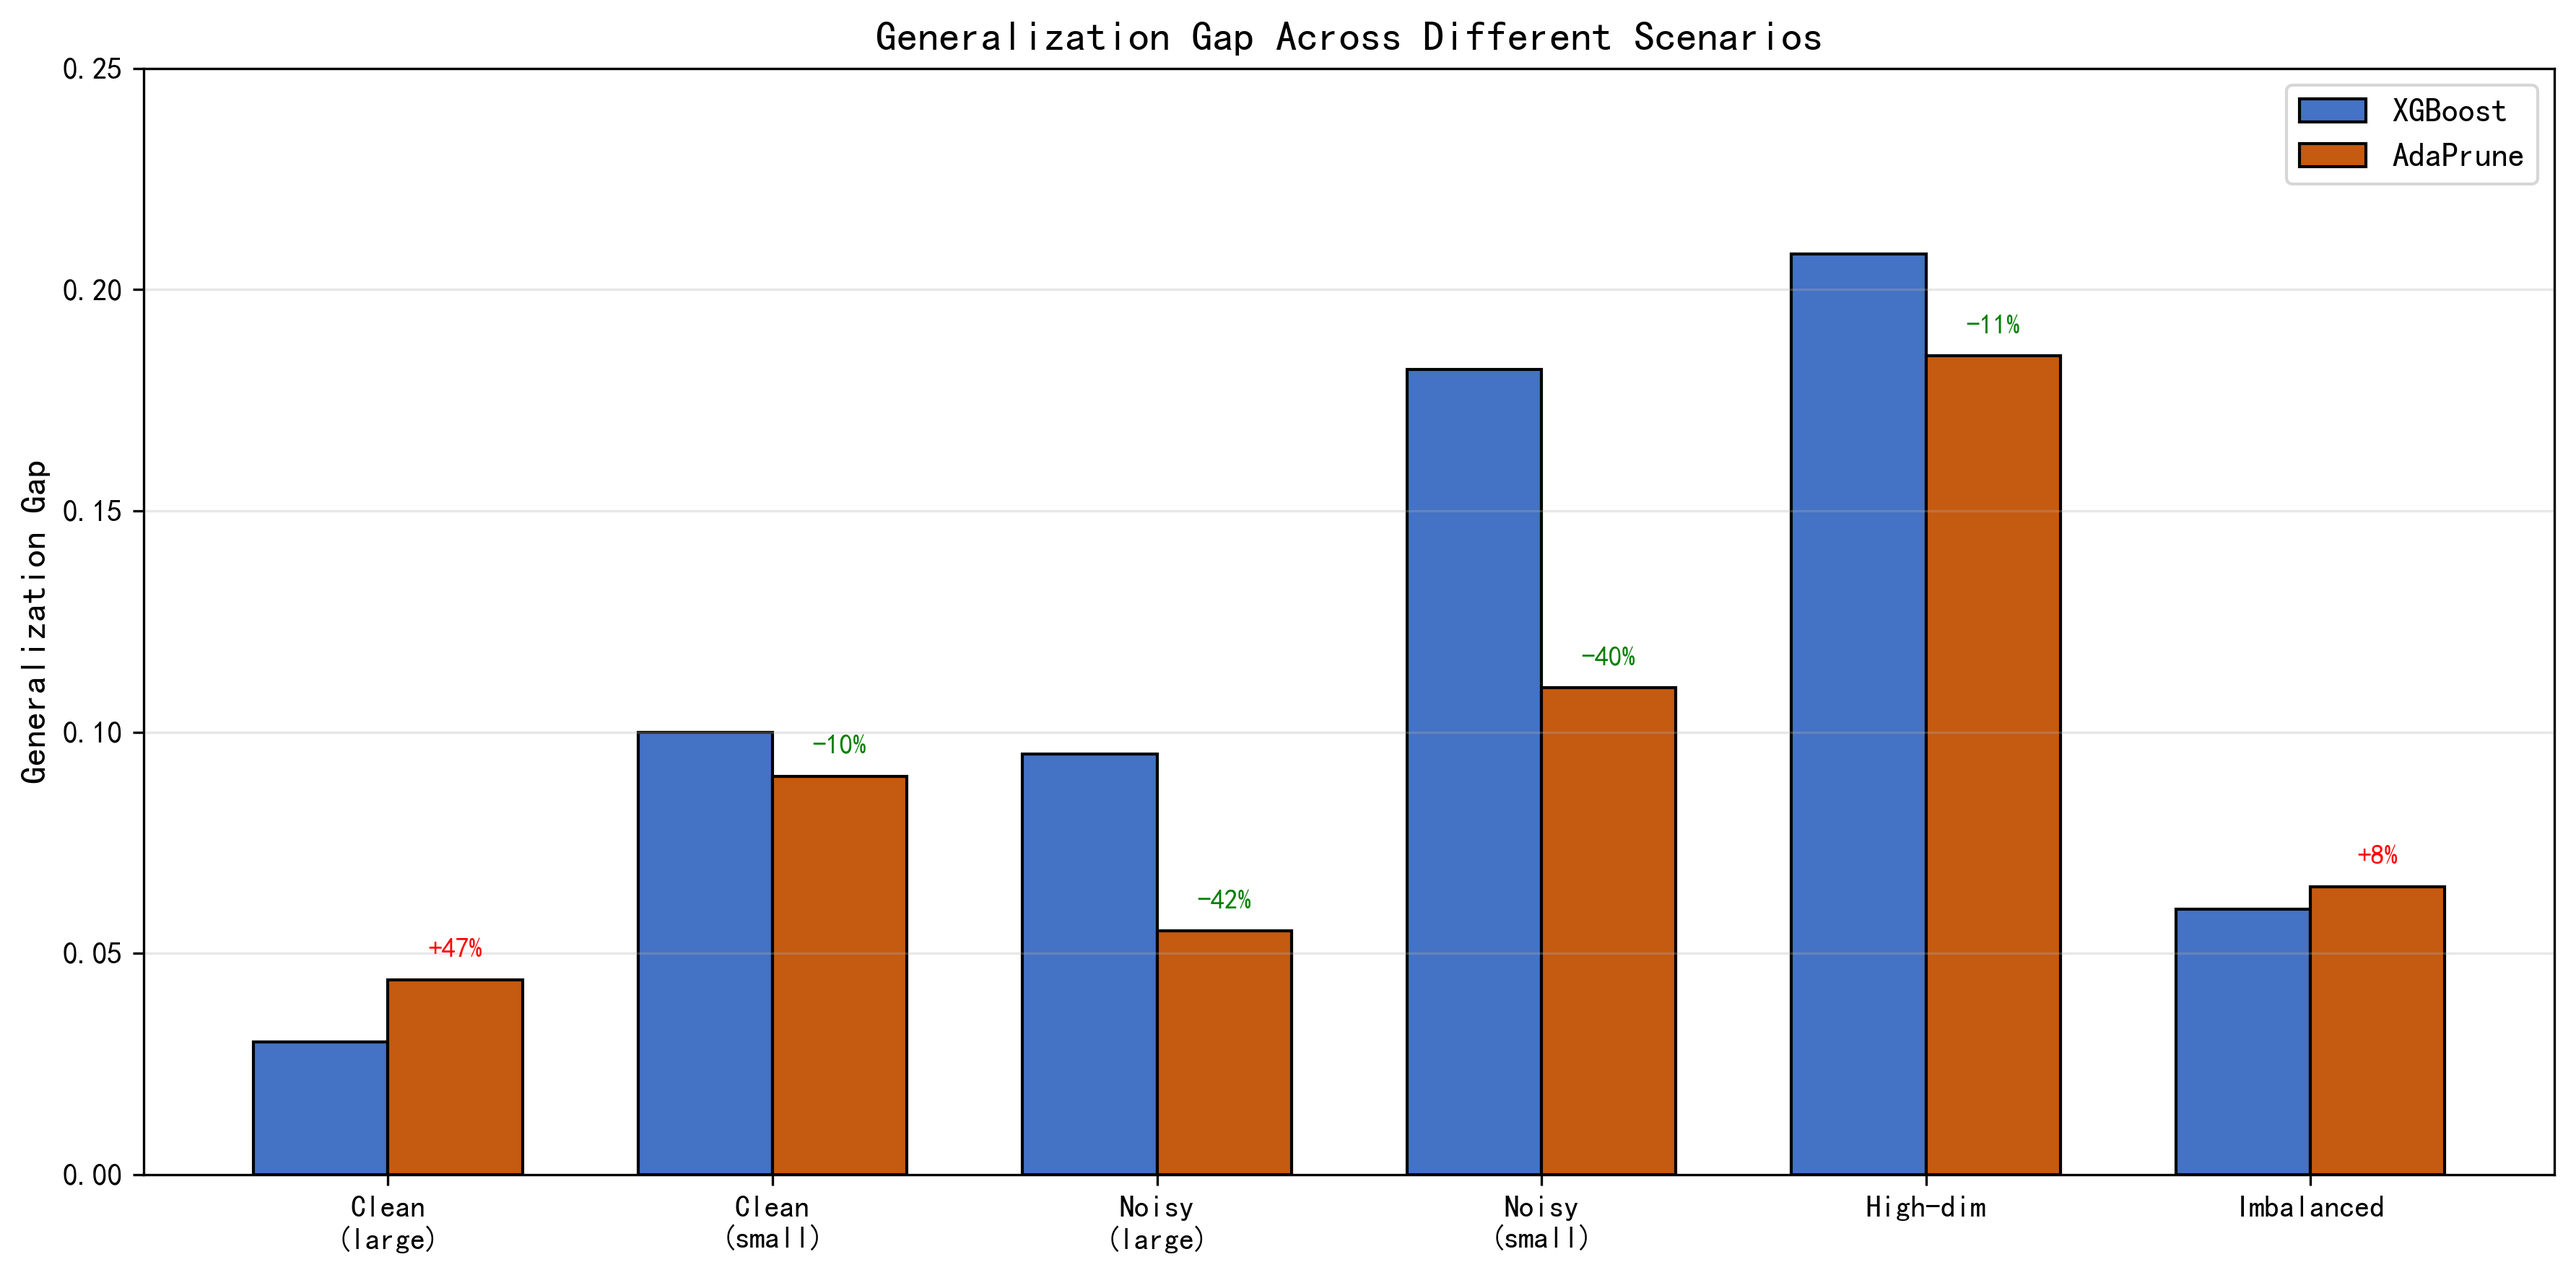
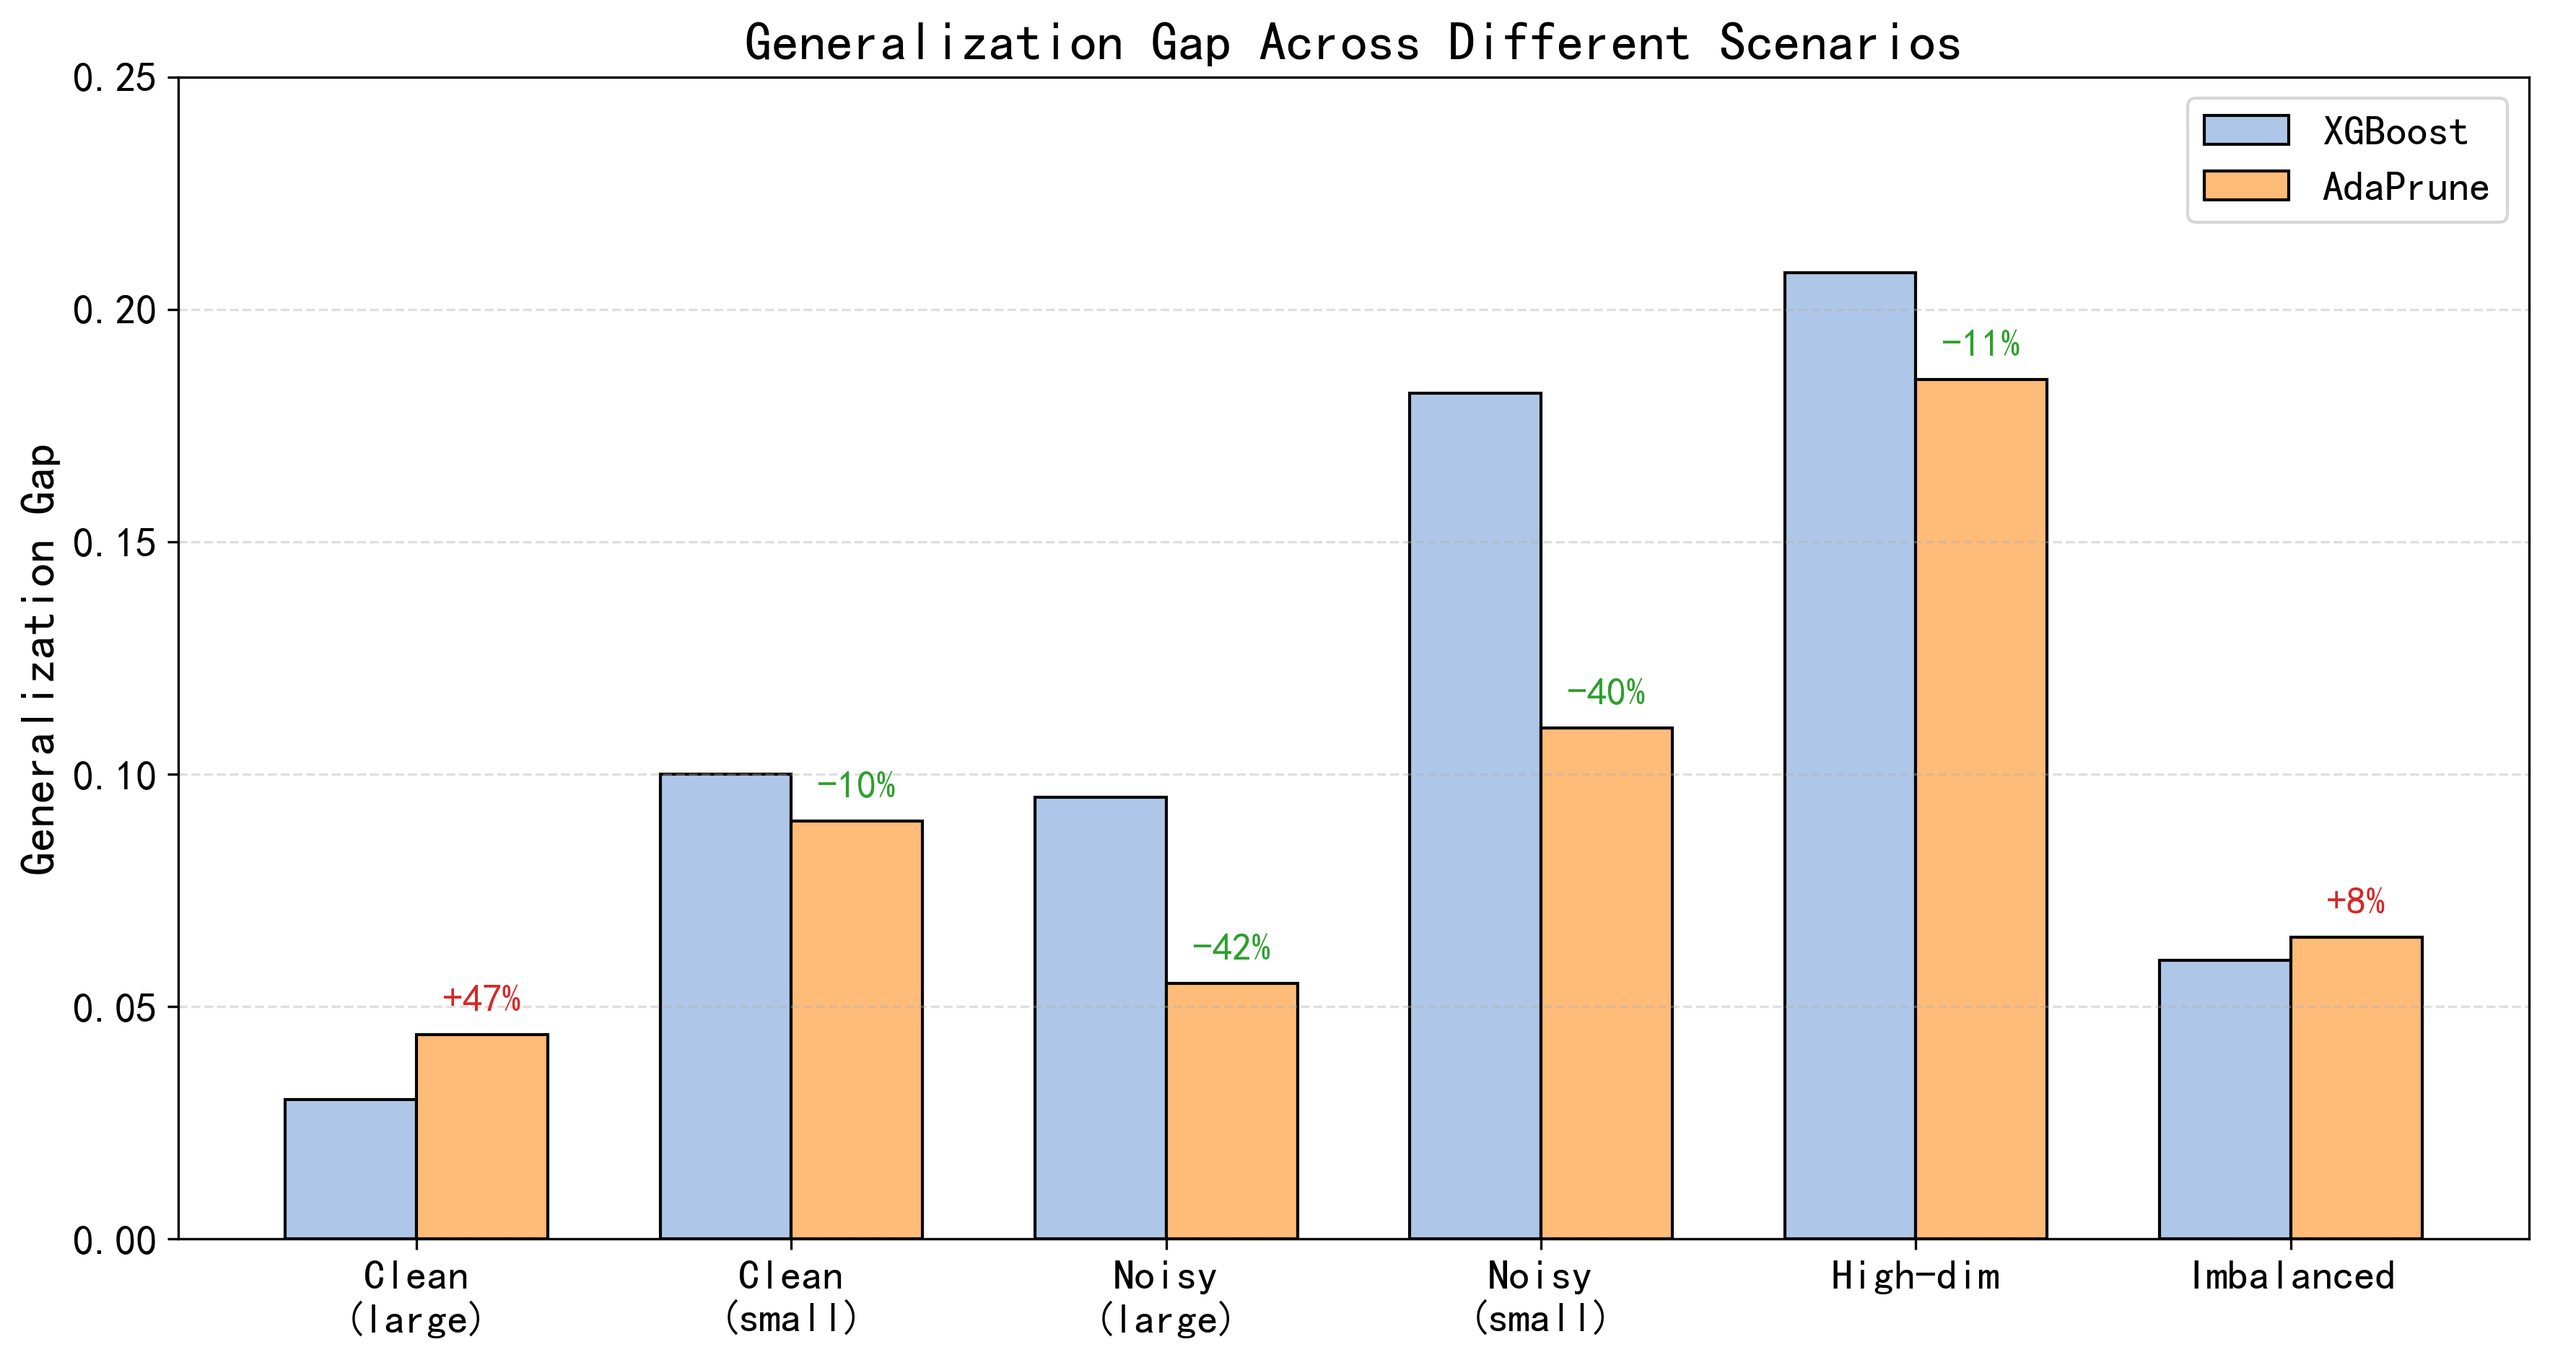
改4

diff --git a/generate_fig5_ablation.py b/generate_fig5_ablation.py
@@ -1,0 +1,72 @@
+import matplotlib.pyplot as plt
+import numpy as np
+
+# 设置全局字体大小，适应论文排版
+plt.rcParams['font.sans-serif'] = ['SimHei', 'Microsoft YaHei', 'Arial Unicode MS']
+plt.rcParams['axes.unicode_minus'] = False
+plt.rcParams['font.size'] = 14  # 全局基础字体调大
+
+# 对应表 8 中的顺序
+configs = ['No_Adaptation\n(XGB_def)', 'Trend_Only', 'Gap_Only', 'Hybrid', 'Data_Aware']
+
+# 替换为你计算出的平均准确率数据 (来自你的 Table 8)
+accuracy = [0.8915, 0.8696, 0.8693, 0.8691, 0.8690]
+# 替换为你计算出的平均 Gap 数据 (来自你的 Table 8)
+gap = [0.0906, 0.0604, 0.0598, 0.0577, 0.0558]
+
+# 🎨 颜色设置：顶级学术期刊常用的“蓝-橙-绿”莫兰迪色系
+color_baseline = '#AEC7E8'  # 淡蓝色 (代表传统的基线模型，客观、中性)
+color_variants = '#FFBB78'  # 淡橙色 (代表过渡性的消融变体，温暖、探索)
+color_best = '#98DF8A'      # 淡绿色 (代表最终的完全体 Data_Aware，积极、最佳)
+
+# 颜色分配：第1个基线(蓝)，中间3个普通变体(橙)，最后1个最佳变体(绿)
+colors_acc = [color_baseline, color_variants, color_variants, color_variants, color_best]
+colors_gap = [color_baseline, color_variants, color_variants, color_variants, color_best]
+
+# 创建图形 (调大画布)
+fig, axes = plt.subplots(1, 2, figsize=(14, 6.5))
+
+# (a) Accuracy by Configuration
+ax1 = axes[0]
+x = np.arange(len(configs))
+bars1 = ax1.bar(x, accuracy, color=colors_acc, edgecolor='black', linewidth=1)
+ax1.set_ylabel('Test Accuracy', fontsize=16, fontweight='bold')
+ax1.set_title('(a) Accuracy by Configuration', fontsize=18, fontweight='bold')
+ax1.set_ylim(0.85, 0.91) # 调整 Y 轴范围以适应你的数据
+ax1.set_xticks(x)
+ax1.set_xticklabels(configs, fontsize=12)
+
+# 添加数值标签 (字体调大)
+for bar, val in zip(bars1, accuracy):
+    ax1.text(bar.get_x() + bar.get_width()/2, bar.get_height() + 0.0005,
+             f'{val:.4f}', ha='center', va='bottom', fontsize=12)
+
+ax1.grid(axis='y', alpha=0.4, linestyle='--')
+
+# (b) Gap by Configuration
+ax2 = axes[1]
+bars2 = ax2.bar(x, gap, color=colors_gap, edgecolor='black', linewidth=1)
+ax2.set_ylabel('Generalization Gap', fontsize=16, fontweight='bold')
+ax2.set_title('(b) Gap by Configuration (Lower is Better)', fontsize=18, fontweight='bold')
+ax2.set_ylim(0.04, 0.11) # 调整 Y 轴范围以适应你的数据
+ax2.set_xticks(x)
+ax2.set_xticklabels(configs, fontsize=12)
+
+# 添加数值标签 (字体调大)
+for bar, val in zip(bars2, gap):
+    ax2.text(bar.get_x() + bar.get_width()/2, bar.get_height() + 0.0005,
+             f'{val:.4f}', ha='center', va='bottom', fontsize=12)
+
+# 删除了绿色的标注线
+
+ax2.grid(axis='y', alpha=0.4, linestyle='--')
+
+plt.tight_layout()
+
+# 确保保存路径存在（可选）
+import os
+os.makedirs('results/figures', exist_ok=True)
+plt.savefig('results/figures/fig5_ablation.png', dpi=300, bbox_inches='tight')
+
+print("✅ 图5已保存到 results/figures/fig5_ablation.png")
+plt.show()

diff --git a/generate_fig4_scenario.py b/generate_fig4_scenario.py
@@ -1,0 +1,64 @@
+import matplotlib.pyplot as plt
+import numpy as np
+import pandas as pd
+from pathlib import Path
+
+# 设置全局字体大小，适应论文排版
+plt.rcParams['font.sans-serif'] = ['SimHei', 'Microsoft YaHei', 'Arial Unicode MS']
+plt.rcParams['axes.unicode_minus'] = False
+plt.rcParams['font.size'] = 14  # 全局基础字体调大
+
+# 场景数据
+scenarios = ['Clean\n(large)', 'Clean\n(small)', 'Noisy\n(large)', 'Noisy\n(small)', 'High-dim', 'Imbalanced']
+
+# XGBoost默认参数的Gap
+xgb_gap = [0.030, 0.100, 0.095, 0.182, 0.208, 0.060]
+# AdaPrune_hybrid的Gap
+adaprune_gap = [0.044, 0.090, 0.055, 0.110, 0.185, 0.065]
+
+# 创建图形 (调大画布)
+fig, ax = plt.subplots(figsize=(12, 6.5))
+
+x = np.arange(len(scenarios))
+width = 0.35
+
+# 🎨 颜色改为高级论文常用的“淡色系” (Pastel Colors)
+color_xgb = '#AEC7E8' # 淡蓝色
+color_ap = '#FFBB78'  # 淡橙色
+
+# 绘制柱状图，加上稍微明显一点的边框增加质感
+bars1 = ax.bar(x - width / 2, xgb_gap, width, label='XGBoost', color=color_xgb, edgecolor='black', linewidth=1)
+bars2 = ax.bar(x + width / 2, adaprune_gap, width, label='AdaPrune', color=color_ap, edgecolor='black', linewidth=1)
+
+# 添加改进百分比标注 (字体调大)
+for i, (xgb, ap) in enumerate(zip(xgb_gap, adaprune_gap)):
+    if ap < xgb:  # AdaPrune更好
+        improvement = (xgb - ap) / xgb * 100
+        ax.annotate(f'-{improvement:.0f}%',
+                    xy=(x[i] + width / 2, ap + 0.005),
+                    ha='center', fontsize=13, color='#2CA02C', fontweight='bold') # 柔和的绿色
+    elif ap > xgb:  # XGBoost更好
+        ax.annotate(f'+{((ap - xgb) / xgb * 100):.0f}%',
+                    xy=(x[i] + width / 2, ap + 0.005),
+                    ha='center', fontsize=13, color='#D62728', fontweight='bold') # 柔和的红色
+
+# 设置标签和标题 (字体大幅调大)
+ax.set_ylabel('Generalization Gap', fontsize=16, fontweight='bold')
+ax.set_title('Generalization Gap Across Different Scenarios', fontsize=18, fontweight='bold')
+ax.set_xticks(x)
+ax.set_xticklabels(scenarios, fontsize=14, fontweight='bold')
+ax.legend(loc='upper right', fontsize=14)
+ax.set_ylim(0, 0.25)
+
+# 添加背景虚线网格，辅助视觉
+ax.grid(axis='y', alpha=0.4, linestyle='--')
+
+plt.tight_layout()
+
+# 确保保存路径存在（可选）
+import os
+os.makedirs('results/figures', exist_ok=True)
+plt.savefig('results/figures/fig4_scenario_analysis.png', dpi=300, bbox_inches='tight')
+
+print("✅ 图4已保存到 results/figures/fig4_scenario_analysis.png")
+plt.show()
